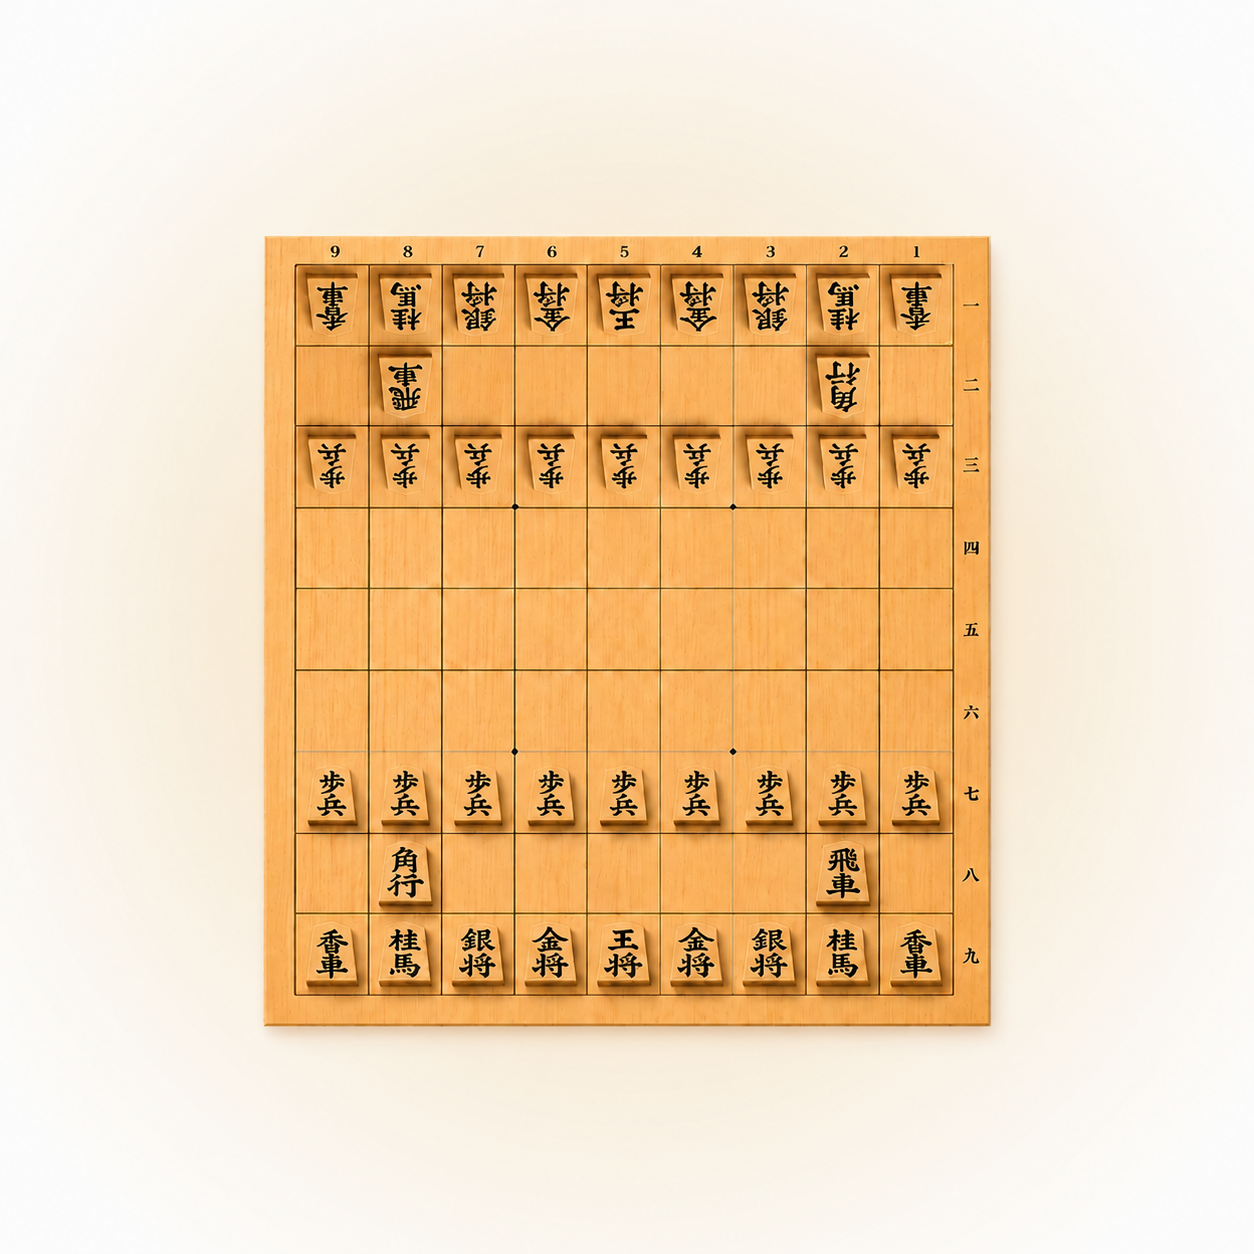
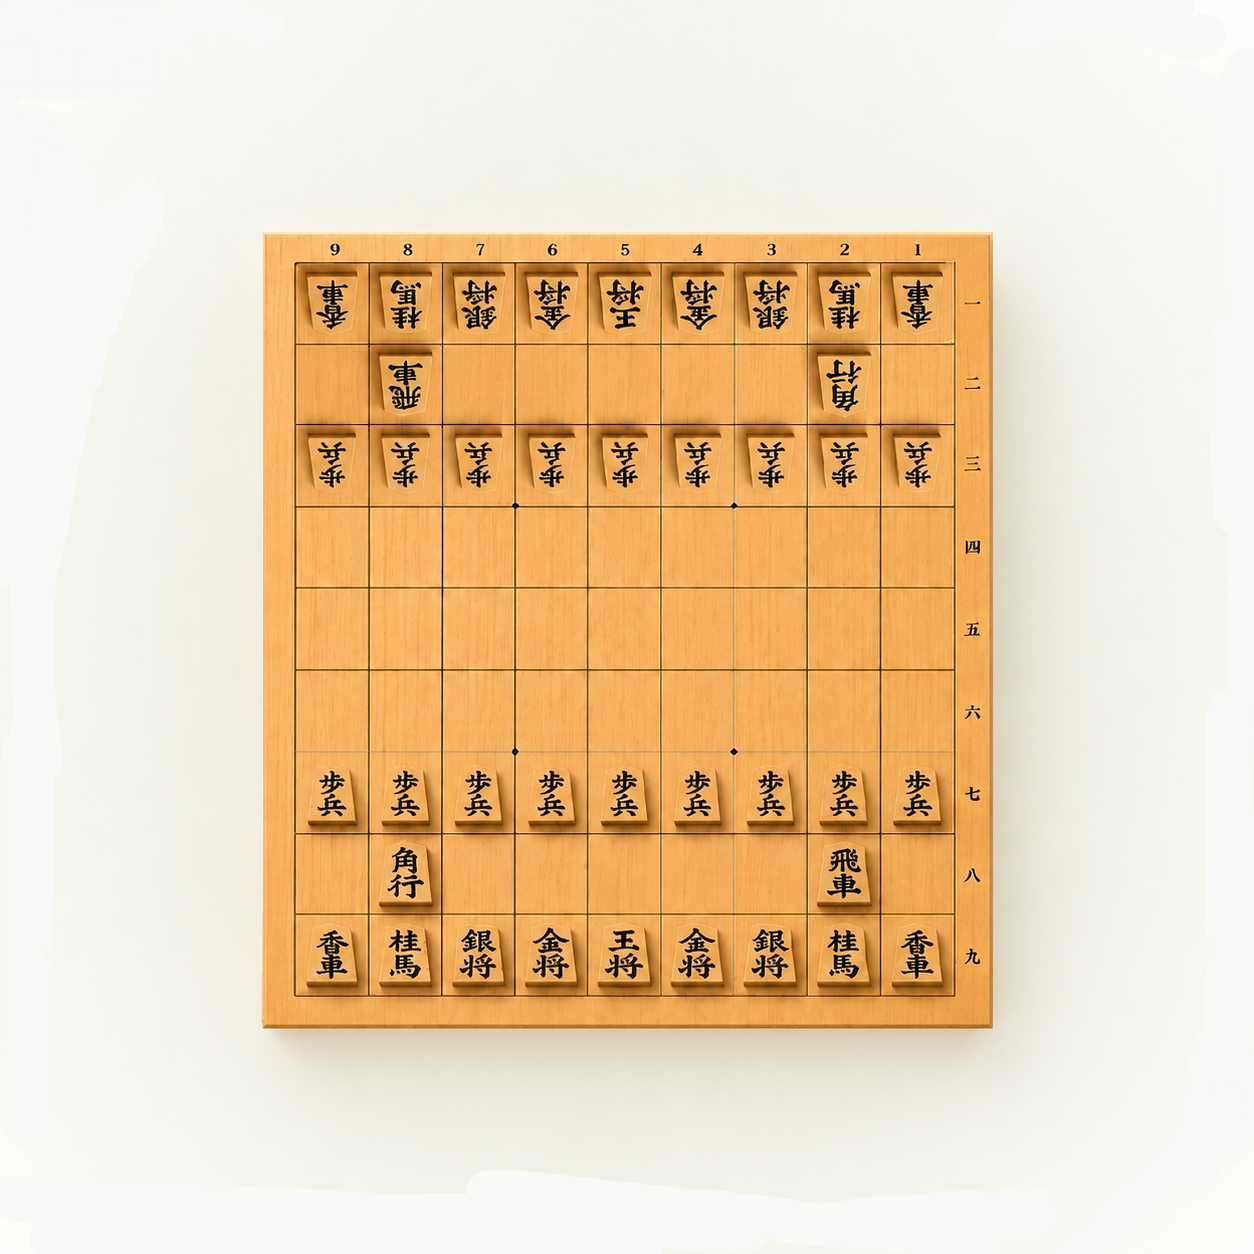
perf: add responsive image pipeline

diff --git a/src/data/imageAssets.js b/src/data/imageAssets.js
@@ -1,0 +1,135 @@
+import activityRoom640Avif from "../assets/generated/responsive/activity-room-640.avif";
+import activityRoom960Avif from "../assets/generated/responsive/activity-room-960.avif";
+import activityRoom1280Avif from "../assets/generated/responsive/activity-room-1280.avif";
+import activityRoom1600Avif from "../assets/generated/responsive/activity-room-1600.avif";
+import activityRoom640Webp from "../assets/generated/responsive/activity-room-640.webp";
+import activityRoom960Webp from "../assets/generated/responsive/activity-room-960.webp";
+import activityRoom1280Webp from "../assets/generated/responsive/activity-room-1280.webp";
+import activityRoom1600Webp from "../assets/generated/responsive/activity-room-1600.webp";
+import activityTournament640Avif from "../assets/generated/responsive/activity-tournament-640.avif";
+import activityTournament960Avif from "../assets/generated/responsive/activity-tournament-960.avif";
+import activityTournament1280Avif from "../assets/generated/responsive/activity-tournament-1280.avif";
+import activityTournament640Webp from "../assets/generated/responsive/activity-tournament-640.webp";
+import activityTournament960Webp from "../assets/generated/responsive/activity-tournament-960.webp";
+import activityTournament1280Webp from "../assets/generated/responsive/activity-tournament-1280.webp";
+import campusMap640Avif from "../assets/generated/responsive/campus-map-640.avif";
+import campusMap960Avif from "../assets/generated/responsive/campus-map-960.avif";
+import campusMap1280Avif from "../assets/generated/responsive/campus-map-1280.avif";
+import campusMap640Webp from "../assets/generated/responsive/campus-map-640.webp";
+import campusMap960Webp from "../assets/generated/responsive/campus-map-960.webp";
+import campusMap1280Webp from "../assets/generated/responsive/campus-map-1280.webp";
+import emblem72Webp from "../assets/generated/responsive/emblem-72.webp";
+import emblem144Webp from "../assets/generated/responsive/emblem-144.webp";
+import hero480Avif from "../assets/generated/responsive/hero-480.avif";
+import hero768Avif from "../assets/generated/responsive/hero-768.avif";
+import hero1024Avif from "../assets/generated/responsive/hero-1024.avif";
+import hero1254Avif from "../assets/generated/responsive/hero-1254.avif";
+import hero480Webp from "../assets/generated/responsive/hero-480.webp";
+import hero768Webp from "../assets/generated/responsive/hero-768.webp";
+import hero1024Webp from "../assets/generated/responsive/hero-1024.webp";
+import hero1254Webp from "../assets/generated/responsive/hero-1254.webp";
+import logo160Webp from "../assets/generated/responsive/logo-160.webp";
+import logo280Webp from "../assets/generated/responsive/logo-280.webp";
+import logo560Webp from "../assets/generated/responsive/logo-560.webp";
+
+const heroSizes = "(min-width: 1024px) 780px, (min-width: 768px) 690px, calc(100vw - 40px)";
+const contentSizes = "(min-width: 768px) 832px, calc(100vw - 40px)";
+
+function createSrcSet(entries) {
+  return entries.map(([src, width]) => `${src} ${width}w`).join(", ");
+}
+
+export const heroImage = {
+  width: 1254,
+  height: 1254,
+  sizes: heroSizes,
+  avifSrcSet: createSrcSet([
+    [hero480Avif, 480],
+    [hero768Avif, 768],
+    [hero1024Avif, 1024],
+    [hero1254Avif, 1254],
+  ]),
+  webpSrcSet: createSrcSet([
+    [hero480Webp, 480],
+    [hero768Webp, 768],
+    [hero1024Webp, 1024],
+    [hero1254Webp, 1254],
+  ]),
+  fallback: hero1254Webp,
+};
+
+export const activityRoomImage = {
+  width: 1600,
+  height: 1200,
+  sizes: contentSizes,
+  avifSrcSet: createSrcSet([
+    [activityRoom640Avif, 640],
+    [activityRoom960Avif, 960],
+    [activityRoom1280Avif, 1280],
+    [activityRoom1600Avif, 1600],
+  ]),
+  webpSrcSet: createSrcSet([
+    [activityRoom640Webp, 640],
+    [activityRoom960Webp, 960],
+    [activityRoom1280Webp, 1280],
+    [activityRoom1600Webp, 1600],
+  ]),
+  fallback: activityRoom960Webp,
+};
+
+export const activityTournamentImage = {
+  width: 1350,
+  height: 1080,
+  sizes: contentSizes,
+  avifSrcSet: createSrcSet([
+    [activityTournament640Avif, 640],
+    [activityTournament960Avif, 960],
+    [activityTournament1280Avif, 1280],
+  ]),
+  webpSrcSet: createSrcSet([
+    [activityTournament640Webp, 640],
+    [activityTournament960Webp, 960],
+    [activityTournament1280Webp, 1280],
+  ]),
+  fallback: activityTournament960Webp,
+};
+
+export const campusMapImage = {
+  width: 2017,
+  height: 1712,
+  sizes: contentSizes,
+  avifSrcSet: createSrcSet([
+    [campusMap640Avif, 640],
+    [campusMap960Avif, 960],
+    [campusMap1280Avif, 1280],
+  ]),
+  webpSrcSet: createSrcSet([
+    [campusMap640Webp, 640],
+    [campusMap960Webp, 960],
+    [campusMap1280Webp, 1280],
+  ]),
+  fallback: campusMap960Webp,
+};
+
+export const emblemImage = {
+  width: 72,
+  height: 72,
+  sizes: "(min-width: 768px) 72px, 48px",
+  webpSrcSet: createSrcSet([
+    [emblem72Webp, 72],
+    [emblem144Webp, 144],
+  ]),
+  fallback: emblem144Webp,
+};
+
+export const logoImage = {
+  width: 560,
+  height: 99,
+  sizes: "(min-width: 768px) 280px, 45vw",
+  webpSrcSet: createSrcSet([
+    [logo160Webp, 160],
+    [logo280Webp, 280],
+    [logo560Webp, 560],
+  ]),
+  fallback: logo560Webp,
+};

diff --git a/src/components/pages/ContentPage.jsx b/src/components/pages/ContentPage.jsx
@@ -1,7 +1,39 @@
-import activityPhoto from "../../../20260709_180604.jpg";
-import tournamentPhoto from "../../../20260524_191148.jpg";
-import campusMap from "../../../cumpasmap.jpg";
+import {
+  activityRoomImage,
+  activityTournamentImage,
+  campusMapImage,
+} from "../../data/imageAssets";
 import { siteConfig } from "../../data/siteConfig";
+
+function ResponsiveImage({
+  image,
+  alt,
+  className,
+  loading,
+  fetchPriority,
+}) {
+  return (
+    <picture>
+      <source
+        type="image/avif"
+        srcSet={image.avifSrcSet}
+        sizes={image.sizes}
+      />
+      <img
+        src={image.fallback}
+        srcSet={image.webpSrcSet}
+        sizes={image.sizes}
+        alt={alt}
+        width={image.width}
+        height={image.height}
+        loading={loading}
+        decoding="async"
+        fetchPriority={fetchPriority}
+        className={className}
+      />
+    </picture>
+  );
+}
 
 const entrySections = [
   {
@@ -94,9 +126,10 @@ function EntryPage() {
           <p className="mt-4 leading-8 text-ink/80">{section.body}</p>
           {section.campusMap && (
             <figure className="mt-6 overflow-hidden rounded-xl border border-line bg-white p-2 shadow-[0_12px_35px_rgba(15,51,80,0.10)] md:p-3">
-              <img
-                src={campusMap}
+              <ResponsiveImage
+                image={campusMapImage}
                 alt="小金井キャンパス内のサークル棟B棟までの案内図"
+                loading="lazy"
                 className="h-auto w-full rounded-lg"
               />
               <figcaption className="px-2 pb-2 pt-4 text-sm leading-7 text-ink/65 md:px-3">
@@ -156,8 +189,8 @@ function RecordPage() {
 
 function IntroducePage() {
   const sections = [
-    { title: "日頃の活動", image: activityPhoto, alt: "部室での活動風景", body: "毎週金曜日に活動しています。部室には棋書・盤駒・チェスクロックなど、将棋のための設備が整っています。" },
-    { title: "大会・部内戦・レーティング", image: tournamentPhoto, alt: "大会参加時の集合写真", body: "一年を通して、さまざまな大会や部内戦があります。大会への参加だけでなく、大学間交流や数か月かけて行う部内順位戦も楽しめます。" },
+    { title: "日頃の活動", image: activityRoomImage, alt: "部室での活動風景", body: "毎週金曜日に活動しています。部室には棋書・盤駒・チェスクロックなど、将棋のための設備が整っています。", loading: "eager", fetchPriority: "high" },
+    { title: "大会・部内戦・レーティング", image: activityTournamentImage, alt: "大会参加時の集合写真", body: "一年を通して、さまざまな大会や部内戦があります。大会への参加だけでなく、大学間交流や数か月かけて行う部内順位戦も楽しめます。", loading: "lazy" },
   ];
   return (
     <PageShell title="活動紹介" lead="普段の部室での活動や、大会・部内戦の様子をご紹介します。">
@@ -165,7 +198,13 @@ function IntroducePage() {
         <section key={section.title}>
           <h2 className="font-mincho text-2xl font-bold text-sumi md:text-3xl">{section.title}</h2>
           <figure className="mt-6 overflow-hidden rounded-sm border-8 border-white bg-white shadow-[5px_8px_30px_rgba(15,23,42,0.14)]">
-            <img src={section.image} alt={section.alt} className="h-auto w-full object-cover" />
+            <ResponsiveImage
+              image={section.image}
+              alt={section.alt}
+              loading={section.loading}
+              fetchPriority={section.fetchPriority}
+              className="h-auto w-full object-cover"
+            />
           </figure>
           <p className="mt-6 leading-8 text-ink/80">{section.body}</p>
         </section>

diff --git a/src/components/home/HeroSection.jsx b/src/components/home/HeroSection.jsx
@@ -1,5 +1,5 @@
 import { siteConfig } from "../../data/siteConfig";
-import boardVisualSrc from "../../../top.png";
+import { heroImage } from "../../data/imageAssets";
 
 function BoardVisual() {
   return (
@@ -7,15 +7,25 @@ function BoardVisual() {
       className="relative mx-auto aspect-square w-full max-w-[690px] lg:w-[150%] lg:justify-self-center"
       aria-hidden="true"
     >
-      <img
-        src={boardVisualSrc}
-        alt=""
-        width="2000"
-        height="2000"
-        decoding="async"
-        fetchPriority="high"
-        className="h-auto w-full"
-      />
+      <picture>
+        <source
+          type="image/avif"
+          srcSet={heroImage.avifSrcSet}
+          sizes={heroImage.sizes}
+        />
+        <img
+          src={heroImage.fallback}
+          srcSet={heroImage.webpSrcSet}
+          sizes={heroImage.sizes}
+          alt=""
+          width={heroImage.width}
+          height={heroImage.height}
+          loading="eager"
+          decoding="async"
+          fetchPriority="high"
+          className="h-auto w-full"
+        />
+      </picture>
     </div>
   );
 }

diff --git a/vite.config.js b/vite.config.js
@@ -6,6 +6,7 @@ export default defineConfig({
   plugins: [react()],
   base: "./",
   build: {
+    assetsInlineLimit: 0,
     rollupOptions: {
       input: {
         main: resolve(process.cwd(), "index.html"),
